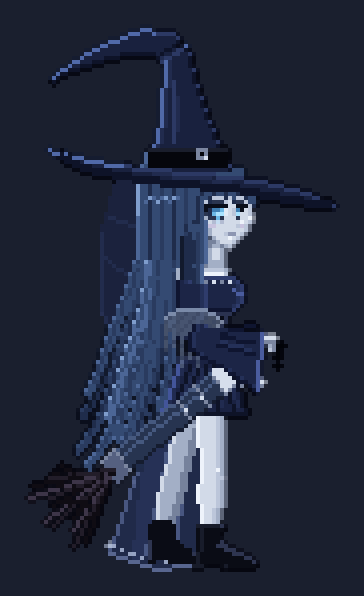
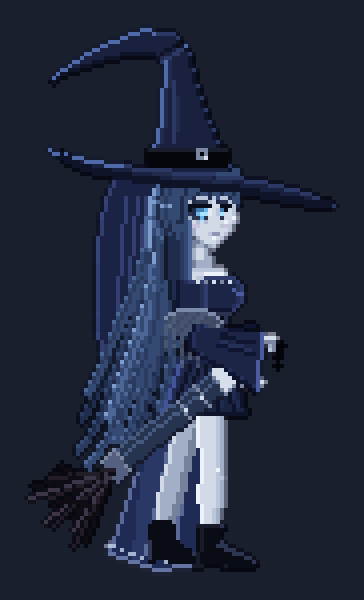
에스카 머리 형태 수정: 얼굴을 머리 안쪽으로, 둥근 뒤통수, 베일 모양·반투명 천 불투명도 (기획서 0.33)
Claude-Session: https://claude.ai/code/session_014QTsqSnFBNjsgiSz2QVxpP

diff --git a/tools/eska_sprite.py b/tools/eska_sprite.py
@@ -45,8 +45,8 @@ C = {
     "tw_d": hx("#0f0c13"), "tw": hx("#221d29"), "tw_l": hx("#3d3548"), "cord": hx("#556080"),
     "grip": hx("#131724"), "grip_l": hx("#2d3448"), "gem": hx("#9fd8ff"), "gem_d": hx("#4f8fc4"),
     "ink": hx("#020308"),
-    "sheer": hx("#2a3a72", 100), "sheer2": hx("#3a4d8e", 125), "sheer_e": hx("#7487bc", 175), "emb": hx("#c4d2ee", 215),
-    "veil": hx("#1c2858", 90), "veil_e": hx("#3f4f8c", 120),
+    "sheer": hx("#24326a", 165), "sheer2": hx("#33467f", 185), "sheer_e": hx("#7487bc", 210), "emb": hx("#c4d2ee", 230),
+    "veil": hx("#1a2452", 160), "veil_e": hx("#3f4f8c", 200),
 }
 
 # ---------------------------------------------------------------- 그리기 상태
@@ -257,7 +257,7 @@ def rotsprite(layer, deg, pivot):
 # ================================================================ 상체 (숙임 회전 층)
 def torso(_):
     # 목: 턱 밑은 그늘
-    neck = poly_cells([(22.5, 27.6), (24.5, 27.6), (24.8, 31.2), (22.0, 31.2)])
+    neck = poly_cells([(20.6, 27.6), (22.6, 27.6), (23.0, 31.2), (20.2, 31.2)])
     paint(neck, "skin_s", left="skin_d")
     for (x, y) in neck:
         if y <= cv(0, 28.9)[1]:
@@ -332,7 +332,9 @@ FACE_KEY = {"H": "hair", "D": "hair_d", "M": "hair_m", "L": "hair_l", "K": "hair
             "s": "skin", "S": "skin_s", "m": "skin_m", "v": "skin_h", "z": "skin_d", "u": "under2", "U": "under",
             "k": "lash", "q": "lash_m", "e": "eye2", "i": "eye_m", "E": "eye", "w": "sclera", "g": "glow",
             "p": "blush", "n": "skin_m", "l": "lip", "_": "clear"}
-FC, FR = 14, 9   # 얼굴 영역의 머리 스탬프 안 위치
+FC, FR = 10, 9   # 얼굴 영역의 머리 스탬프 안 위치 (얼굴을 머리 안쪽으로 넣어 머리가 가로로 길어 보이지 않게)
+# 뒤통수 왼쪽 가장자리 (머리 스탬프 열, 행 0~26 = 칸 y 48~74): 챙 밑에서 둥글게 부풀었다가 목덜미로 들어감
+SKULL = [5, 5, 5, 5, 6, 6, 6, 6, 6, 5, 5, 4, 4, 4, 4, 4, 4, 5, 5, 6, 6, 7, 8, 9, 10, 11, 12]
 
 
 @lifted
@@ -342,30 +344,29 @@ def head(_):
 
     def hp(c, r, col):
         dot(X0 + c, Y0 + r, col)
-    # 1) 뒷머리 덩어리: 모자 밑에서 둥글게, 세로로 흐르는 결 줄 + 뒤 가장자리 역광 + 윤기 띠
+    # 1) 뒤통수: 둥근 곡선을 따라 휘는 머릿결 (가장자리 역광 + 결 줄 + 윤기 띠). 얼굴 앞까지 9px 정도만 보인다.
     for r in range(0, 27):
-        lx = 3 if r < 3 else 2 if r < 6 else 1
-        rx = 23 if r < 4 else 27 if r < 9 else 13
+        lx = SKULL[r]
+        rx = 23 if r < 4 else 26 if r < 9 else FC + 3
         for c in range(lx, rx + 1):
-            col = "hair"
-            if c in (4, 10, 16):
-                col = "hair_d"
-            elif c in (7, 13):
-                col = "hair_m"
+            k = c - lx
+            col = "hair_d" if k in (2, 6) else "hair_m" if k == 4 else "hair"
             hp(c, r, col)
-        hp(lx, r, "hair_h" if 8 <= r <= 15 else "hair_l")
-    for c in range(3, 12):                  # 윤기 띠 (천사의 고리)
-        hp(c, 11 + (c % 3 == 0), "hair_l" if c % 2 else "hair_h")
+        hp(lx, r, "hair_h" if 9 <= r <= 15 else "hair_l")
+        if 9 <= r <= 15:
+            hp(lx + 1, r, "hair_l")
+    for k in range(1, 8):                   # 윤기 띠 (천사의 고리): 뒤통수 곡선을 따라 비스듬히
+        hp(SKULL[12] + k, 12 + (k // 3), "hair_h" if k % 2 else "hair_l")
     # 2) 얼굴 (앞머리 포함, 한 칸씩 찍은 영역)
     for r, row in enumerate(FACE):
         for c, ch in enumerate(row):
             if ch in FACE_KEY:
                 hp(FC + c, FR + r, FACE_KEY[ch])
     # 4) 옆머리: 귀 앞에서 가슴까지, 앞쪽 볼선을 감싸고 끝이 뾰족
-    side = tube([(21.0, 27.0), (21.3, 31.0), (21.1, 34.5), (21.6, 37.5)], lambda t: 1.8 * (1 - t) ** 0.7 + 0.35)
+    side = tube([(19.0, 27.0), (19.3, 31.0), (19.4, 34.5), (20.2, 37.5)], lambda t: 1.8 * (1 - t) ** 0.7 + 0.35)
     paint(side, "hair", left="hair_d", right="hair_l")
-    line(21.1, 28.0, 21.3, 34.0, "hair_m")
-    side2 = tube([(20.0, 29.0), (19.8, 33.5), (20.2, 38.0)], lambda t: 1.3 * (1 - t) + 0.35)
+    line(19.1, 28.0, 19.4, 34.0, "hair_m")
+    side2 = tube([(18.0, 29.0), (17.9, 33.5), (18.5, 38.0)], lambda t: 1.3 * (1 - t) + 0.35)
     paint(side2, "hair_d", left="hair_dd")
 
 
@@ -430,15 +431,17 @@ def trail_pts(pts, y0, y1, t, power=1.3):
 
 
 def veil(p):
-    pts = [(11, 19), (16, 19), (16, 28), (15, 36), (12, 42), (9, 36), (9, 26)]
-    pts = [ub(*q) for q in pts]
-    pts = trail_pts(pts, 19, 42, p["veil"])
+    # 모자 챙 뒤에서 허리까지 늘어진 반투명 베일: 아래로 살짝 벌어지고 밑단은 물결, 세로 주름
+    pts = [(10.5, 19.5), (16.0, 19.5), (16.5, 26.0), (16.0, 33.0), (15.4, 40.0), (14.0, 42.6), (12.6, 41.2),
+           (11.4, 43.0), (10.2, 41.4), (9.0, 42.6), (8.6, 36.0), (8.8, 28.0), (9.6, 22.0)]
+    pts = trail_pts([ub(*q) for q in pts], 19, 43, p["veil"])
     poly(pts, "veil")
-    line(*pts[6], *pts[5], "veil_e"); line(*pts[5], *pts[4], "veil_e")
-    for u in (0.3, 0.6):  # 베일의 얇은 주름
-        a = add(pts[1], (pts[4][0] - pts[1][0], pts[4][1] - pts[1][1]), u)
-        b = add(pts[0], (pts[5][0] - pts[0][0], pts[5][1] - pts[0][1]), u)
-        line(*a, *b, "veil_e")
+    for a, b in ((0, 12), (12, 11), (11, 10), (10, 9), (9, 8), (8, 7), (7, 6), (6, 5), (5, 4)):
+        line(*pts[a], *pts[b], "veil_e")
+    for u in (0.3, 0.55, 0.8):  # 세로 주름
+        top = add(pts[0], (pts[1][0] - pts[0][0], pts[1][1] - pts[0][1]), u)
+        bot = add(pts[9], (pts[5][0] - pts[9][0], pts[5][1] - pts[9][1]), u)
+        line(*add(top, (0, 2)), *add(bot, (0, -1.5)), "veil_e")
 
 
 def overskirt(p):
@@ -470,7 +473,7 @@ def hair(p):
     p["hair"] = (중간점 dx, dy, 끝점 dx, dy), p["hwave"] = (진폭, 위상 rad)."""
     d = p["hair"]
     amp, phase = p.get("hwave", (0.6, 0.0))
-    root = ub(16.8, 23.5)
+    root = ub(17.4, 24.5)
     p1 = add(ub(16.0, 42), (d[0], d[1]))
     p2 = (8.5 + d[2], 56 + d[3])
     base = bezier(root, p1, p2, 28)

diff --git a/tools/eska_anim.py b/tools/eska_anim.py
@@ -307,8 +307,12 @@ def idle_preview():
     bb = f.getbbox()
     body = bg.crop((bb[0] - 6, bb[1] - 6, bb[2] + 6, bb[3] + 6))
     body.resize((body.width * 4, body.height * 4), Image.NEAREST).save(OUT / "idle_preview.png")
-    face = bg.crop((74, 46, 106, 80))
+    face = bg.crop((66, 44, 104, 82))
     face.resize((face.width * 10, face.height * 10), Image.NEAREST).save(OUT / "idle_face.png")
+    wb = Image.new("RGBA", f.size, (255, 255, 255, 255))   # 밝은 배경에서도 확인
+    wb.alpha_composite(f)
+    wb = wb.crop((bb[0] - 6, bb[1] - 6, bb[2] + 6, bb[3] + 6))
+    wb.resize((wb.width * 4, wb.height * 4), Image.NEAREST).save(OUT / "idle_preview_light.png")
 
 
 if __name__ == "__main__":

diff --git a/docs/gdd/10-art-direction.md b/docs/gdd/10-art-direction.md
@@ -50,9 +50,9 @@
 - 레퍼런스: 인상은 웹툰 『히어로 킬러』의 철의 마녀 아진, 의상 구성은 『마녀의 여행』 일레이나, 긴 겉치마·금속빛 옷감·코르셋 벨트는 『클레르 옵스퀴르: 33 원정대』 마엘의 의상, 얀데레풍 외형(텅 빈 눈·한쪽만 오염된 요소·약함과 섬뜩함의 대비)은 개발자가 제시한 팬아트 이미지의 분위기 — **느낌만 참고하고 고유 요소(별자리 문양, 별 모양 브로치, 퍼프 소매 실루엣 등)는 쓰지 않는다.** 마녀 모자·노출된 어깨·빗자루 검으로 차별화한다. [확정]
 - 이미지 생성 프롬프트(디자인 앵커 포함): [`../art/eska-design-prompts.txt`](../art/eska-design-prompts.txt)
 - **디자인 시트 기준안: [`assets/eska-sheet-v3.png`](assets/eska-sheet-v3.png)** — 얀데레풍 외형·빗자루 검까지 반영된 현재 기준
-- 게임 스프라이트 (사이드뷰, 코드로 찍은 도트 — 리그 `tools/eska_sprite.py`, 동작 정의 `tools/eska_anim.py`): 전체 시트 [`../art/eska/sheet.png`](../art/eska/sheet.png) · 이름표 붙은 3배 미리보기 [`../art/eska/sheet_preview.png`](../art/eska/sheet_preview.png) · 대기 확대 [`idle_preview.png`](../art/eska/idle_preview.png) · 얼굴 확대 [`idle_face.png`](../art/eska/idle_face.png) · 움직이는 미리보기 [`run.gif`](../art/eska/run.gif) [`jump.gif`](../art/eska/jump.gif) [`double_jump.gif`](../art/eska/double_jump.gif) [`dash.gif`](../art/eska/dash.gif). [시도 중]
+- 게임 스프라이트 (사이드뷰, 코드로 찍은 도트 — 리그 `tools/eska_sprite.py`, 동작 정의 `tools/eska_anim.py`): 전체 시트 [`../art/eska/sheet.png`](../art/eska/sheet.png) · 이름표 붙은 3배 미리보기 [`../art/eska/sheet_preview.png`](../art/eska/sheet_preview.png) · 대기 확대 [`idle_preview.png`](../art/eska/idle_preview.png) · 얼굴 확대 [`idle_face.png`](../art/eska/idle_face.png) · 밝은 배경 [`idle_preview_light.png`](../art/eska/idle_preview_light.png) · 움직이는 미리보기 [`run.gif`](../art/eska/run.gif) [`jump.gif`](../art/eska/jump.gif) [`double_jump.gif`](../art/eska/double_jump.gif) [`dash.gif`](../art/eska/dash.gif). [시도 중]
   - 동작: 대기 1, 달리기 8(질주: 상체 28° 숙임·엉덩이를 5~6px 내려 무게중심을 낮게, 디딤 무릎을 깊게 굽힘, 큰 보폭·뒷발꿈치를 엉덩이까지 차올림·무릎 높이, 머리·베일·겉치마가 거의 수평으로 날림, 프레임당 40ms, 착지 먼지·속도선은 효과 층), 점프 7(이륙·상승 2·정점·하강 2·착지), 이단점프 3(웅크림·마법진 딛기·솟구침, 마법진 효과는 별도 층), 대시 3(시작·돌진·마무리, 잔상은 별도 층). 한 칸 160×176px, 발밑 기준점 칸 좌표 (89, 154).
-  - 2배 해상도: 몸 약 104px(정수리~발바닥), 모자 포함 약 148px. 치수·관절·자세 값은 1배 단위로 적고 2배 격자에 찍어, 실루엣 비례는 그대로 두고 선·장식·머릿결을 1px로 더 가늘고 촘촘하게 넣는다. 얼굴은 3/4 각도로 18×18 영역을 한 칸씩 손으로 찍는다(무거운 윗눈꺼풀의 진한 속눈썹, 위 남색 → 아래 하늘색으로 빛나는 눈동자·하이라이트 없음, 좁은 뒤쪽 눈, 살짝 처진 가는 눈썹, 눈 밑 옅은 그늘, 작은 코·입, 옅은 라벤더 볼, V자 턱선, 가는 목 — 순수 옆얼굴은 코·입·턱이 톱니처럼 보여 기각). 대기 자세는 손을 검 손잡이 끝에 가볍게 얹고, 종 모양 소매는 팔이 수평일수록 아래 자락이 늘어진다, 머리 뒤쪽은 세로로 흐르는 결 줄. 뒷머리 가닥 10개마다 안쪽 결과 윗면 윤기. 허리가 가는 체형, 각지게 꺾여 가는 끝이 뒤로 처지는 날카로운 모자, 옆머리로 볼을 가린 작은 얼굴. 뒤에서 오는 차가운 역광, 셀아웃 외곽선.
+  - 2배 해상도: 몸 약 104px(정수리~발바닥), 모자 포함 약 148px. 치수·관절·자세 값은 1배 단위로 적고 2배 격자에 찍어, 실루엣 비례는 그대로 두고 선·장식·머릿결을 1px로 더 가늘고 촘촘하게 넣는다. 머리는 뒤통수가 챙 밑에서 둥글게 부풀었다 목덜미로 들어가는 곡선을 따라 머릿결이 휘고, 얼굴은 머리 안쪽(뒤통수에서 9px)에 둔다 — 얼굴이 앞으로 떨어져 나와 머리가 가로로 긴 물고기처럼 보이는 것을 피함. 얼굴은 3/4 각도로 18×18 영역을 한 칸씩 손으로 찍는다(무거운 윗눈꺼풀의 진한 속눈썹, 위 남색 → 아래 하늘색으로 빛나는 눈동자·하이라이트 없음, 좁은 뒤쪽 눈, 살짝 처진 가는 눈썹, 눈 밑 옅은 그늘, 작은 코·입, 옅은 라벤더 볼, V자 턱선, 가는 목 — 순수 옆얼굴은 코·입·턱이 톱니처럼 보여 기각). 대기 자세는 손을 검 손잡이 끝에 가볍게 얹고, 종 모양 소매는 팔이 수평일수록 아래 자락이 늘어진다, 머리 뒤쪽은 세로로 흐르는 결 줄. 뒷머리 가닥 10개마다 안쪽 결과 윗면 윤기. 허리가 가는 체형, 각지게 꺾여 가는 끝이 뒤로 처지는 날카로운 모자, 옆머리로 볼을 가린 작은 얼굴. 뒤에서 오는 차가운 역광, 셀아웃 외곽선.
   - 리그 구조: 상체·머리·모자는 손으로 찍은 픽셀을 통째로 옮기거나 엉덩이를 축으로 숙이고(RotSprite 방식 회전 — Scale2x 세 번으로 8배 키워 돌린 뒤 줄여 선이 깨지지 않게, 대시 34°·엉덩이 7px 내림), 다리·팔·뒷머리·치마·겉치마·베일·검집은 관절 위치와 휘날림 값으로 프레임마다 계산한다. 뒷머리는 한 덩어리가 아니라 가늘고 끝이 1px로 뾰족한 가닥 8개 — 끝으로 갈수록 벌어지고, 박자가 다른 물결 두 개가 뿌리에서 끝으로 시간차를 두고 흘러 불규칙하게 찰랑인다(가닥마다 길이·박자가 다름, 동작별 진폭). 상승 땐 머리카락·치마가 아래로 끌리고, 정점부터 바람 없이 떠오르며, 대시 땐 뒤로 길게 날린다.
 - 디자인 시트 2차: [`assets/eska-sheet-v2.webp`](assets/eska-sheet-v2.webp) — 레이피어 시절 (비교용)
 - 디자인 시트 1차 생성본: [`assets/eska-sheet-v1.webp`](assets/eska-sheet-v1.webp) — 신비감 보완 전 (비교용)

diff --git a/docs/gdd/19-appendix.md b/docs/gdd/19-appendix.md
@@ -116,3 +116,4 @@
 | 0.30 | 2026-10-25 | 달리기 무게중심을 낮춤(28°), 뒷머리 가닥 8개·불규칙 물결, 대시 34° (10, 19장) | |
 | 0.31 | 2026-10-25 | 해상도 2배: 게임 화면 1280×720, 주인공 스프라이트 2배로 재작성(머릿결 묘사 추가) (10, 19장) | |
 | 0.32 | 2026-10-25 | 주인공 얼굴을 3/4 각도로 한 칸씩 다시 찍음, 대기 자세 손을 검 손잡이에 (10, 19장) | |
+| 0.33 | 2026-10-25 | 주인공 머리 형태 수정(얼굴을 안쪽으로, 둥근 뒤통수), 베일·시폰 불투명도 올림 (10, 19장) | |

diff --git a/docs/gdd/README.md b/docs/gdd/README.md
@@ -1,6 +1,6 @@
 # [가제] 다크판타지 2D 사이드뷰 게임 — 게임 기획서(GDD)
 
-> 문서 버전: 0.32 · 작성 시작: 2026-10-25
+> 문서 버전: 0.33 · 작성 시작: 2026-10-25
 > 이 폴더는 업계 표준 GDD 19개 섹션을 **섹션별 파일**로 나눈 것이다. 섹션 단위로 채우고 수정 이력을 git으로 추적한다.
 
 ## 상태 표기 규칙
